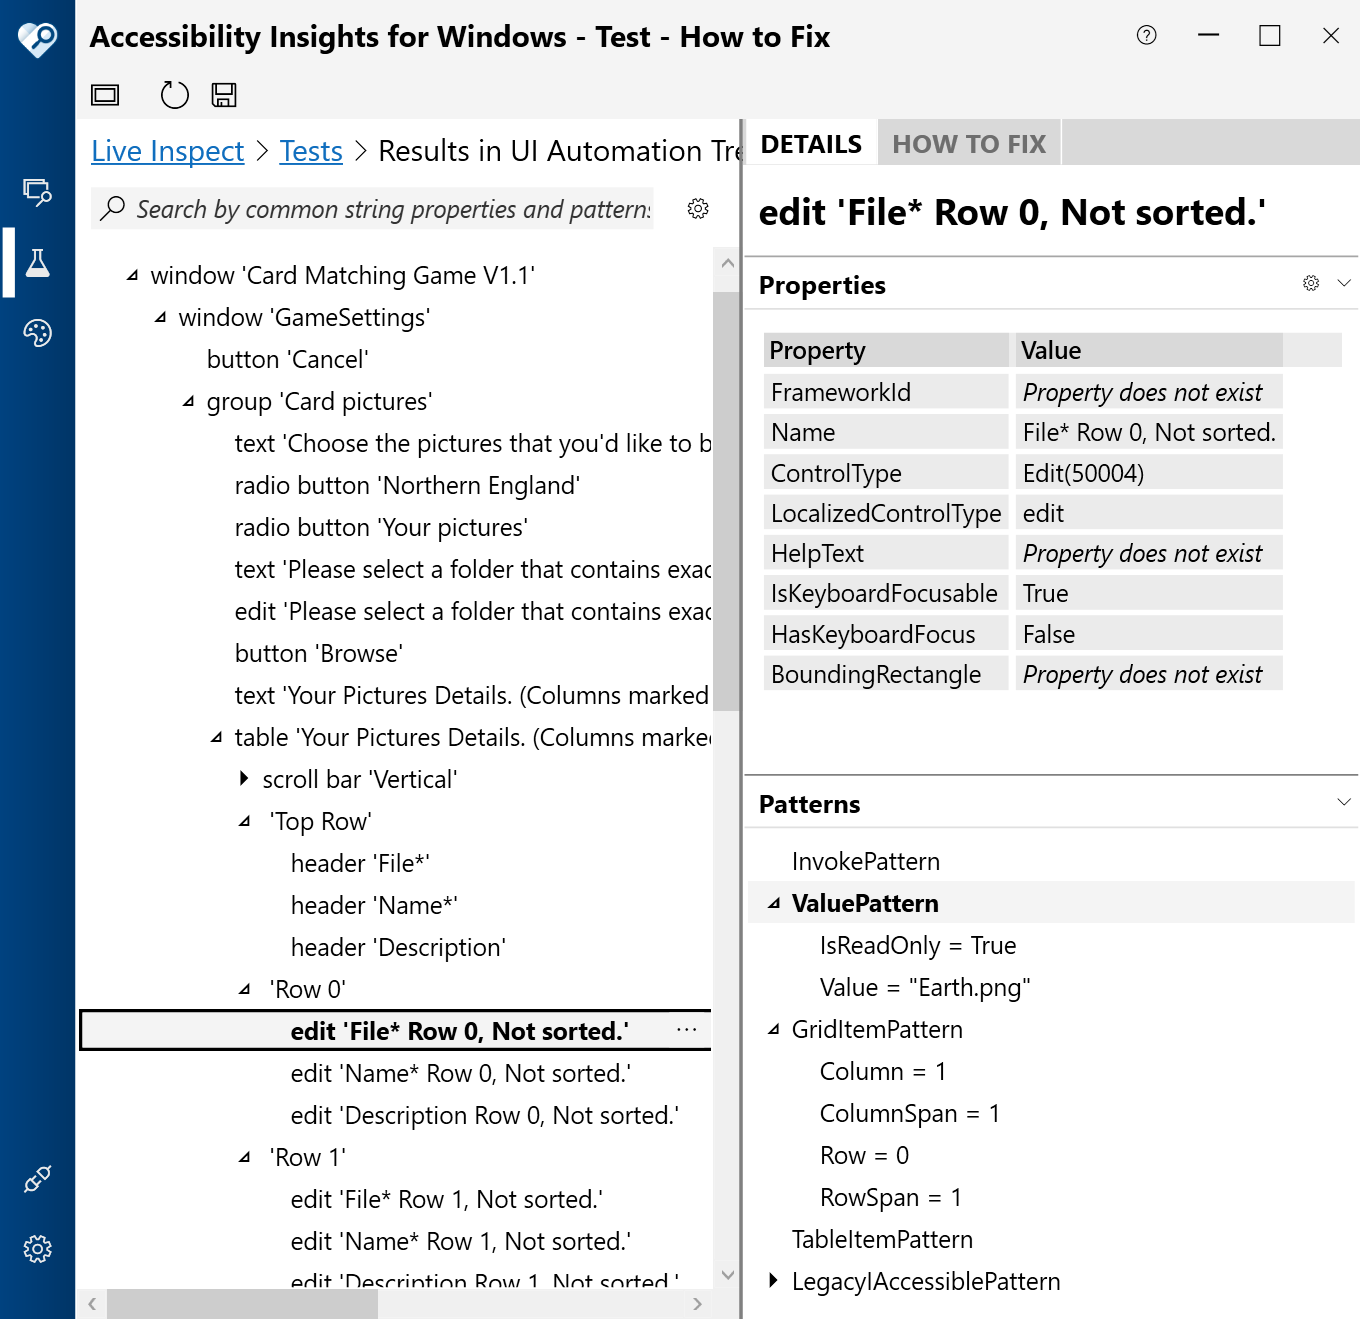
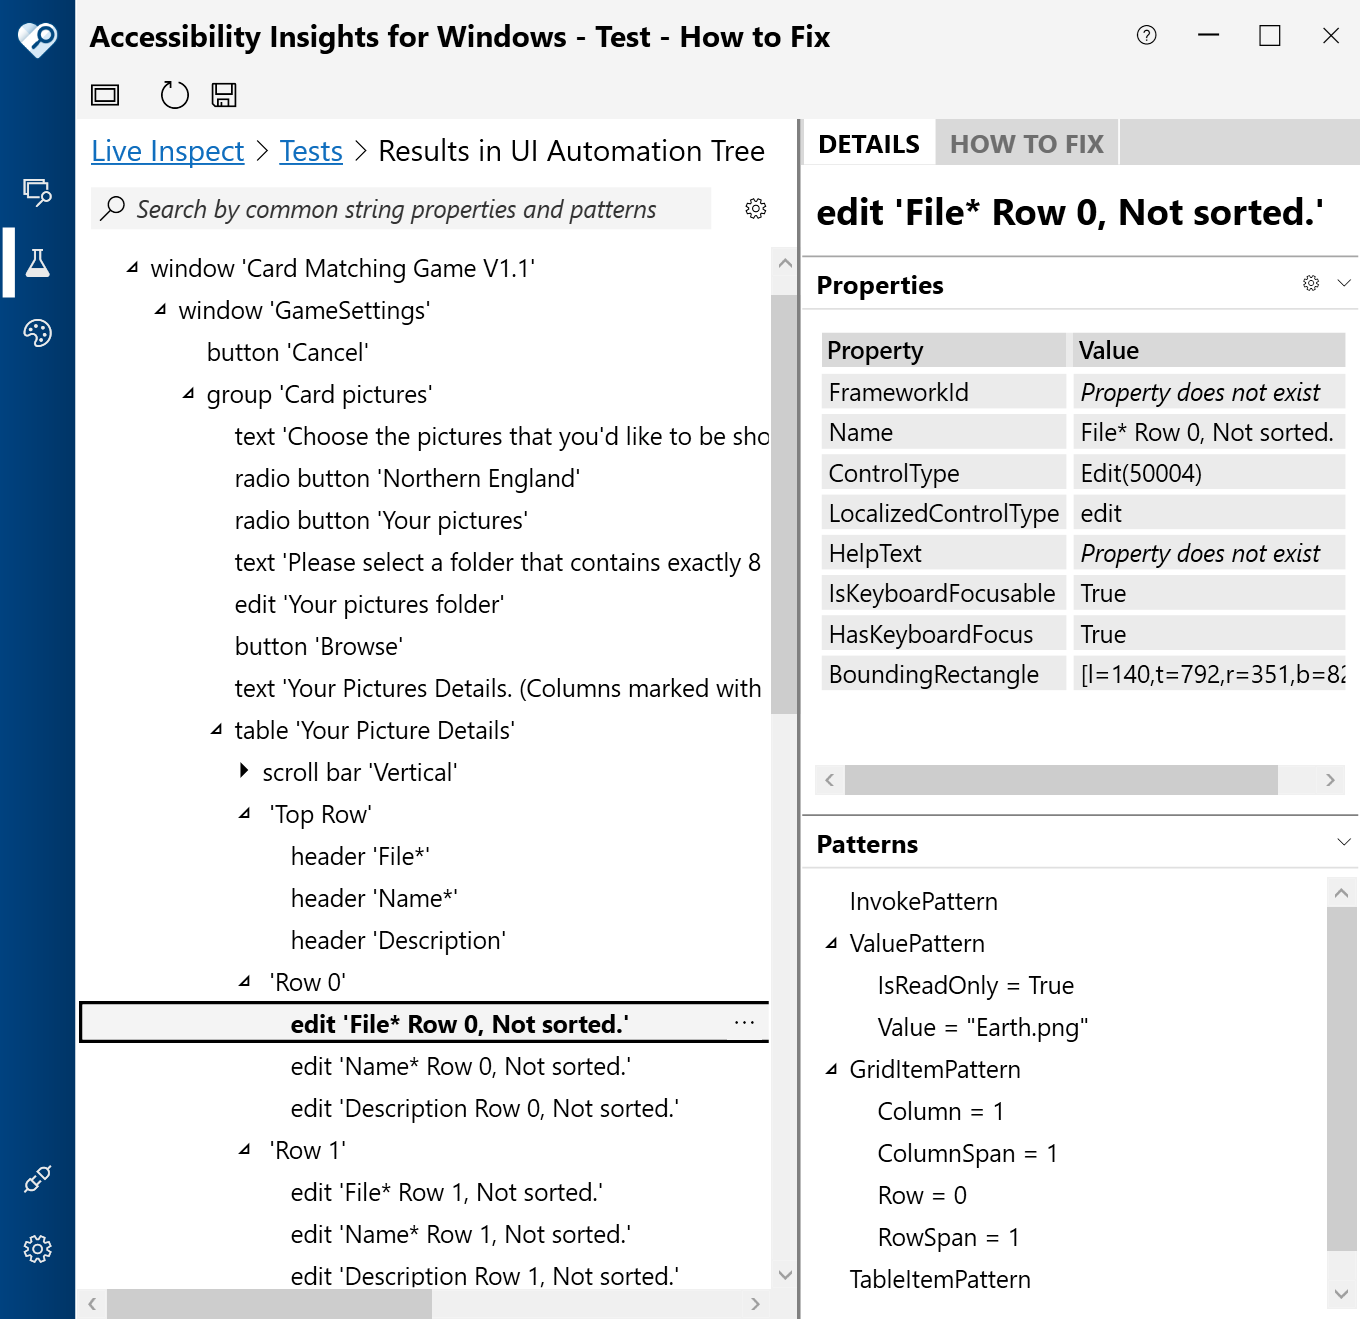
Update accessible names of the TextBox and DataGridView controls.

Changed region(s): [[0.0618, 0.0933, 0.9882, 1.0], [0.9574, 0.6839, 1.0, 0.9636], [0.525, 0.6217, 0.5559, 0.6528]]

diff --git a/WinFormsMatchingGame/GameSettings.Designer.cs b/WinFormsMatchingGame/GameSettings.Designer.cs
@@ -109,6 +109,7 @@ namespace WinFormsMatchingGame
             // 
             // textBoxYourPicturesPath
             // 
+            this.textBoxYourPicturesPath.AccessibleName = "Your pictures folder";
             this.textBoxYourPicturesPath.Location = new System.Drawing.Point(69, 282);
             this.textBoxYourPicturesPath.Name = "textBoxYourPicturesPath";
             this.textBoxYourPicturesPath.Size = new System.Drawing.Size(515, 35);
@@ -135,6 +136,7 @@ namespace WinFormsMatchingGame
             // 
             // dataGridViewPictureData
             // 
+            this.dataGridViewPictureData.AccessibleName = "Your Picture Details";
             this.dataGridViewPictureData.AllowUserToAddRows = false;
             this.dataGridViewPictureData.AllowUserToDeleteRows = false;
             this.dataGridViewPictureData.AutoSizeColumnsMode = System.Windows.Forms.DataGridViewAutoSizeColumnsMode.Fill;

diff --git a/README.md b/README.md
@@ -103,6 +103,8 @@ If required data is missing when the Save and Close button is clicked, present a
 
 I decided not to show a preview of the pictures in the grid, as the preview would be too small for to be useful to many people.
 
+By default, the accessible names of the TextBox and DataGridView controls are taken from the labels that precede those controls. In the case of this Settings window, the labels' text is not the best match for the accessible names of the TextBox and DataGridView controls. As such, more appropriate accessible names were explicitly set on those controls.
+
 Whenever controls are added, removed, or rearranged in the Settings window, Accessibility Insights for Windows is run to verify that the UIA order of elements is as players need it to be. If the order is not as expected, the calls to Add() in the form and the container in the form are reordered as necessary from the form designer file, in order to create the required UIA order. During this, all explicit setting of TabIndex is manually removed from the code. The TabIndex will be added back as required later by Visual Studio.
 
 The following image shows the Accessibility Insights for Windows tool reporting the UI Automation hierarchy of the elements in the Settings window. The order of the element matches the visual order shown in the window.
